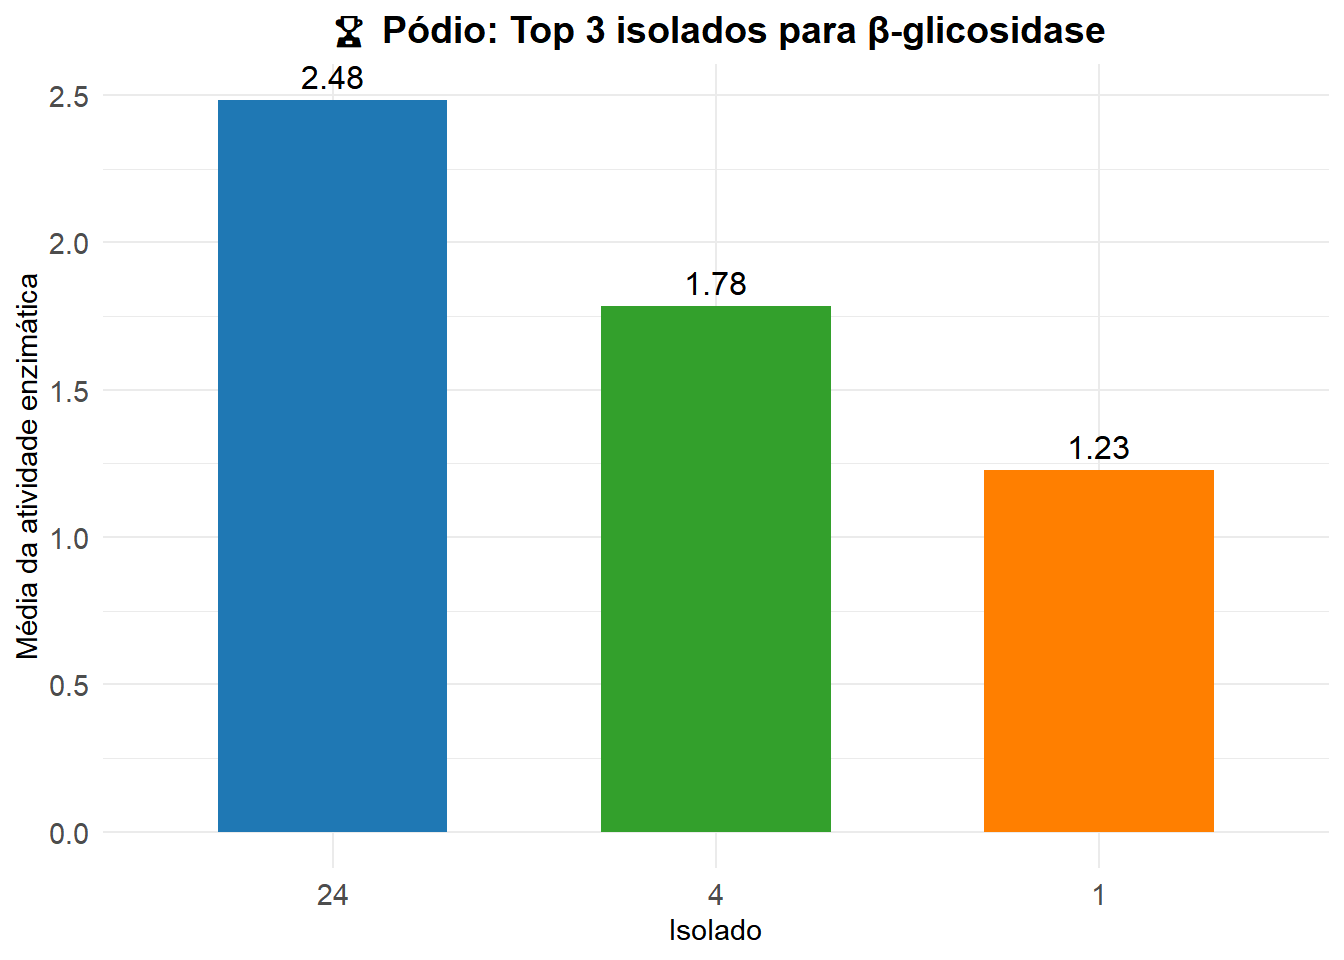
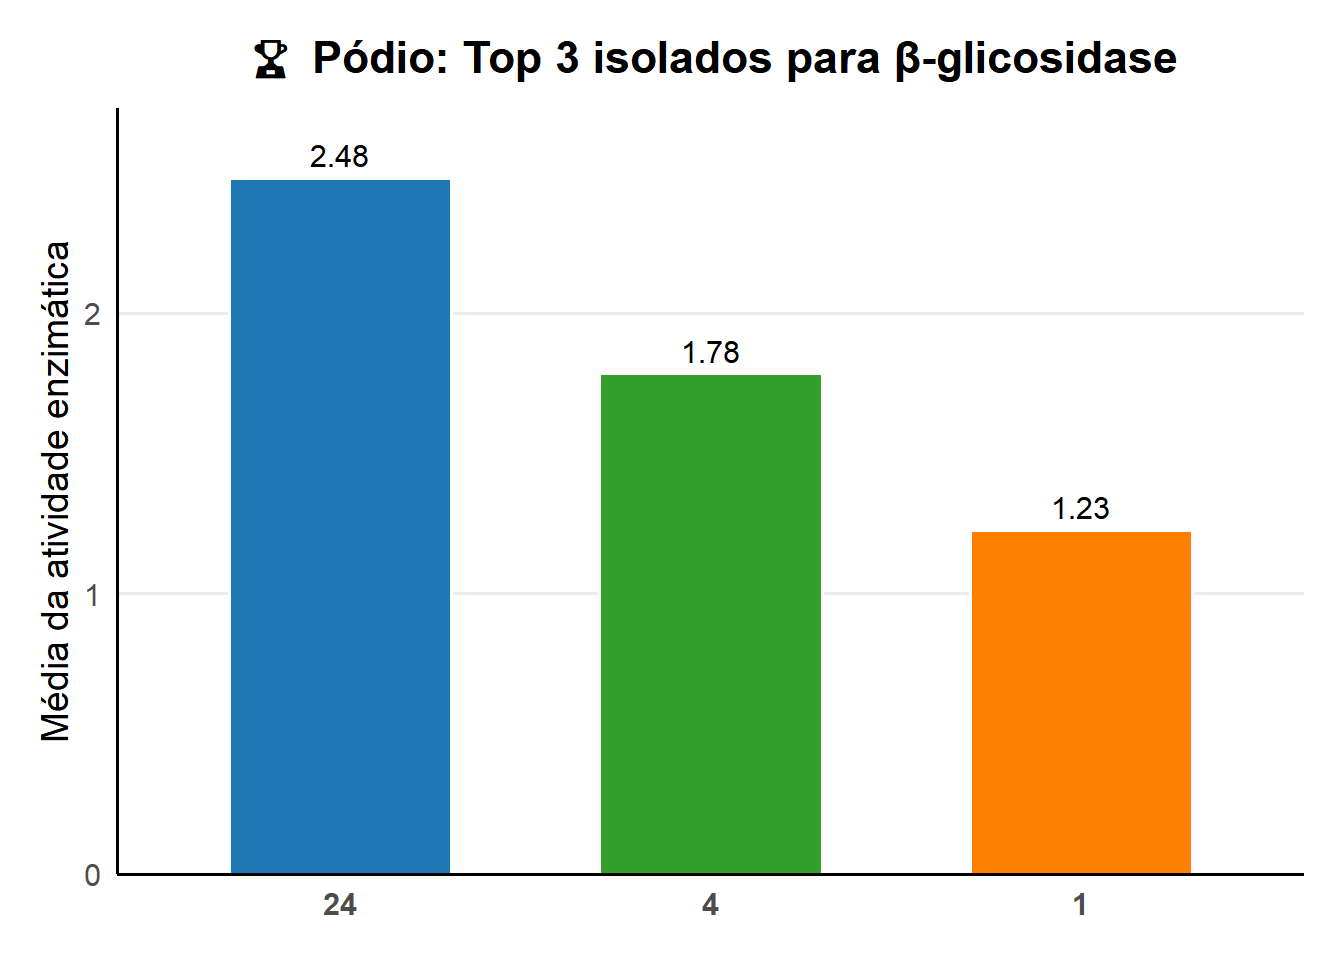
ultima

diff --git a/docs/resultados.html b/docs/resultados.html
@@ -327,11 +327,10 @@ See '? untidy'</code></pre>
 <section id="top-3-isolados-por-enzima" class="level2">
 <h2 class="anchored" data-anchor-id="top-3-isolados-por-enzima">🏆 Top 3 Isolados por Enzima</h2>
 <div class="cell">
-<div class="sourceCode cell-code" id="cb7"><pre class="sourceCode r code-with-copy"><code class="sourceCode r"><span id="cb7-1"><a href="#cb7-1" aria-hidden="true" tabindex="-1"></a><span class="co"># Pacotes necessários</span></span>
-<span id="cb7-2"><a href="#cb7-2" aria-hidden="true" tabindex="-1"></a><span class="fu">library</span>(tidyverse)</span>
-<span id="cb7-3"><a href="#cb7-3" aria-hidden="true" tabindex="-1"></a><span class="fu">library</span>(ggplot2)</span>
-<span id="cb7-4"><a href="#cb7-4" aria-hidden="true" tabindex="-1"></a><span class="fu">library</span>(forcats)</span>
-<span id="cb7-5"><a href="#cb7-5" aria-hidden="true" tabindex="-1"></a><span class="fu">library</span>(scales)</span></code><button title="Copy to Clipboard" class="code-copy-button"><i class="bi"></i></button></pre></div>
+<div class="sourceCode cell-code" id="cb7"><pre class="sourceCode r code-with-copy"><code class="sourceCode r"><span id="cb7-1"><a href="#cb7-1" aria-hidden="true" tabindex="-1"></a><span class="fu">library</span>(tidyverse)</span>
+<span id="cb7-2"><a href="#cb7-2" aria-hidden="true" tabindex="-1"></a><span class="fu">library</span>(ggplot2)</span>
+<span id="cb7-3"><a href="#cb7-3" aria-hidden="true" tabindex="-1"></a><span class="fu">library</span>(forcats)</span>
+<span id="cb7-4"><a href="#cb7-4" aria-hidden="true" tabindex="-1"></a><span class="fu">library</span>(scales)</span></code><button title="Copy to Clipboard" class="code-copy-button"><i class="bi"></i></button></pre></div>
 <div class="cell-output cell-output-stderr">
 <pre><code>
 Anexando pacote: 'scales'</code></pre>
@@ -364,40 +363,59 @@ Anexando pacote: 'scales'</code></pre>
 <span id="cb11-16"><a href="#cb11-16" aria-hidden="true" tabindex="-1"></a>  <span class="fu">arrange</span>(enzima, <span class="fu">desc</span>(media_atividade)) <span class="sc">%&gt;%</span></span>
 <span id="cb11-17"><a href="#cb11-17" aria-hidden="true" tabindex="-1"></a>  <span class="fu">group_by</span>(enzima) <span class="sc">%&gt;%</span></span>
 <span id="cb11-18"><a href="#cb11-18" aria-hidden="true" tabindex="-1"></a>  <span class="fu">slice_head</span>(<span class="at">n =</span> <span class="dv">3</span>) <span class="sc">%&gt;%</span></span>
-<span id="cb11-19"><a href="#cb11-19" aria-hidden="true" tabindex="-1"></a>  <span class="fu">mutate</span>(<span class="at">colocacao =</span> <span class="fu">row_number</span>())  <span class="co"># 1, 2, 3 lugares</span></span>
+<span id="cb11-19"><a href="#cb11-19" aria-hidden="true" tabindex="-1"></a>  <span class="fu">mutate</span>(<span class="at">colocacao =</span> <span class="fu">row_number</span>())</span>
 <span id="cb11-20"><a href="#cb11-20" aria-hidden="true" tabindex="-1"></a></span>
 <span id="cb11-21"><a href="#cb11-21" aria-hidden="true" tabindex="-1"></a><span class="co"># Novas cores do pódio (1º, 2º, 3º)</span></span>
 <span id="cb11-22"><a href="#cb11-22" aria-hidden="true" tabindex="-1"></a>cores_podio <span class="ot">&lt;-</span> <span class="fu">c</span>(<span class="st">"1"</span> <span class="ot">=</span> <span class="st">"#1f78b4"</span>,  <span class="co"># Azul escuro</span></span>
 <span id="cb11-23"><a href="#cb11-23" aria-hidden="true" tabindex="-1"></a>                 <span class="st">"2"</span> <span class="ot">=</span> <span class="st">"#33a02c"</span>,  <span class="co"># Verde vibrante</span></span>
 <span id="cb11-24"><a href="#cb11-24" aria-hidden="true" tabindex="-1"></a>                 <span class="st">"3"</span> <span class="ot">=</span> <span class="st">"#ff7f00"</span>)  <span class="co"># Laranja forte</span></span>
 <span id="cb11-25"><a href="#cb11-25" aria-hidden="true" tabindex="-1"></a></span>
-<span id="cb11-26"><a href="#cb11-26" aria-hidden="true" tabindex="-1"></a><span class="co"># Loop para gerar pódio por enzima</span></span>
+<span id="cb11-26"><a href="#cb11-26" aria-hidden="true" tabindex="-1"></a><span class="co"># Loop para gerar pódio por enzima com visual clean</span></span>
 <span id="cb11-27"><a href="#cb11-27" aria-hidden="true" tabindex="-1"></a><span class="cf">for</span> (enz <span class="cf">in</span> <span class="fu">unique</span>(melhores_isolados<span class="sc">$</span>enzima)) {</span>
 <span id="cb11-28"><a href="#cb11-28" aria-hidden="true" tabindex="-1"></a>  </span>
-<span id="cb11-29"><a href="#cb11-29" aria-hidden="true" tabindex="-1"></a>  dados_podio <span class="ot">&lt;-</span> melhores_isolados <span class="sc">%&gt;%</span> <span class="fu">filter</span>(enzima <span class="sc">==</span> enz)</span>
-<span id="cb11-30"><a href="#cb11-30" aria-hidden="true" tabindex="-1"></a>  </span>
-<span id="cb11-31"><a href="#cb11-31" aria-hidden="true" tabindex="-1"></a>  nome_completo <span class="ot">&lt;-</span> nomes_enzimas[[<span class="fu">tolower</span>(enz)]]</span>
-<span id="cb11-32"><a href="#cb11-32" aria-hidden="true" tabindex="-1"></a>  <span class="cf">if</span> (<span class="fu">is.null</span>(nome_completo)) nome_completo <span class="ot">&lt;-</span> enz</span>
-<span id="cb11-33"><a href="#cb11-33" aria-hidden="true" tabindex="-1"></a>  </span>
-<span id="cb11-34"><a href="#cb11-34" aria-hidden="true" tabindex="-1"></a>  grafico_podio <span class="ot">&lt;-</span> <span class="fu">ggplot</span>(dados_podio, <span class="fu">aes</span>(<span class="at">x =</span> <span class="fu">fct_reorder</span>(isolado, <span class="sc">-</span>media_atividade), </span>
-<span id="cb11-35"><a href="#cb11-35" aria-hidden="true" tabindex="-1"></a>                                           <span class="at">y =</span> media_atividade, </span>
-<span id="cb11-36"><a href="#cb11-36" aria-hidden="true" tabindex="-1"></a>                                           <span class="at">fill =</span> <span class="fu">factor</span>(colocacao))) <span class="sc">+</span></span>
-<span id="cb11-37"><a href="#cb11-37" aria-hidden="true" tabindex="-1"></a>    <span class="fu">geom_col</span>(<span class="at">width =</span> <span class="fl">0.6</span>, <span class="at">show.legend =</span> <span class="cn">FALSE</span>) <span class="sc">+</span></span>
-<span id="cb11-38"><a href="#cb11-38" aria-hidden="true" tabindex="-1"></a>    <span class="fu">geom_text</span>(<span class="fu">aes</span>(<span class="at">label =</span> <span class="fu">round</span>(media_atividade, <span class="dv">2</span>)), <span class="at">vjust =</span> <span class="sc">-</span><span class="fl">0.5</span>, <span class="at">size =</span> <span class="fl">4.2</span>) <span class="sc">+</span></span>
-<span id="cb11-39"><a href="#cb11-39" aria-hidden="true" tabindex="-1"></a>    <span class="fu">scale_fill_manual</span>(<span class="at">values =</span> cores_podio) <span class="sc">+</span></span>
-<span id="cb11-40"><a href="#cb11-40" aria-hidden="true" tabindex="-1"></a>    <span class="fu">labs</span>(</span>
-<span id="cb11-41"><a href="#cb11-41" aria-hidden="true" tabindex="-1"></a>      <span class="at">title =</span> <span class="fu">paste</span>(<span class="st">"🏆 Pódio: Top 3 isolados para"</span>, nome_completo),</span>
-<span id="cb11-42"><a href="#cb11-42" aria-hidden="true" tabindex="-1"></a>      <span class="at">x =</span> <span class="st">"Isolado"</span>,</span>
-<span id="cb11-43"><a href="#cb11-43" aria-hidden="true" tabindex="-1"></a>      <span class="at">y =</span> <span class="st">"Média da atividade enzimática"</span></span>
-<span id="cb11-44"><a href="#cb11-44" aria-hidden="true" tabindex="-1"></a>    ) <span class="sc">+</span></span>
-<span id="cb11-45"><a href="#cb11-45" aria-hidden="true" tabindex="-1"></a>    <span class="fu">theme_minimal</span>() <span class="sc">+</span></span>
-<span id="cb11-46"><a href="#cb11-46" aria-hidden="true" tabindex="-1"></a>    <span class="fu">theme</span>(</span>
-<span id="cb11-47"><a href="#cb11-47" aria-hidden="true" tabindex="-1"></a>      <span class="at">plot.title =</span> <span class="fu">element_text</span>(<span class="at">hjust =</span> <span class="fl">0.5</span>, <span class="at">face =</span> <span class="st">"bold"</span>, <span class="at">size =</span> <span class="dv">14</span>),</span>
-<span id="cb11-48"><a href="#cb11-48" aria-hidden="true" tabindex="-1"></a>      <span class="at">axis.text =</span> <span class="fu">element_text</span>(<span class="at">size =</span> <span class="dv">11</span>)</span>
-<span id="cb11-49"><a href="#cb11-49" aria-hidden="true" tabindex="-1"></a>    )</span>
-<span id="cb11-50"><a href="#cb11-50" aria-hidden="true" tabindex="-1"></a>  </span>
-<span id="cb11-51"><a href="#cb11-51" aria-hidden="true" tabindex="-1"></a>  <span class="fu">print</span>(grafico_podio)</span>
-<span id="cb11-52"><a href="#cb11-52" aria-hidden="true" tabindex="-1"></a>}</span></code><button title="Copy to Clipboard" class="code-copy-button"><i class="bi"></i></button></pre></div>
+<span id="cb11-29"><a href="#cb11-29" aria-hidden="true" tabindex="-1"></a>  dados_podio <span class="ot">&lt;-</span> melhores_isolados <span class="sc">%&gt;%</span> </span>
+<span id="cb11-30"><a href="#cb11-30" aria-hidden="true" tabindex="-1"></a>    <span class="fu">filter</span>(enzima <span class="sc">==</span> enz)</span>
+<span id="cb11-31"><a href="#cb11-31" aria-hidden="true" tabindex="-1"></a>  </span>
+<span id="cb11-32"><a href="#cb11-32" aria-hidden="true" tabindex="-1"></a>  <span class="co"># Obter o nome completo da enzima (confere minúsculas)</span></span>
+<span id="cb11-33"><a href="#cb11-33" aria-hidden="true" tabindex="-1"></a>  nome_completo <span class="ot">&lt;-</span> nomes_enzimas[[<span class="fu">tolower</span>(enz)]]</span>
+<span id="cb11-34"><a href="#cb11-34" aria-hidden="true" tabindex="-1"></a>  <span class="cf">if</span> (<span class="fu">is.null</span>(nome_completo)) nome_completo <span class="ot">&lt;-</span> enz</span>
+<span id="cb11-35"><a href="#cb11-35" aria-hidden="true" tabindex="-1"></a>  </span>
+<span id="cb11-36"><a href="#cb11-36" aria-hidden="true" tabindex="-1"></a>  grafico_podio <span class="ot">&lt;-</span> <span class="fu">ggplot</span>(dados_podio, </span>
+<span id="cb11-37"><a href="#cb11-37" aria-hidden="true" tabindex="-1"></a>                          <span class="fu">aes</span>(<span class="at">x =</span> <span class="fu">fct_reorder</span>(isolado, <span class="sc">-</span>media_atividade), </span>
+<span id="cb11-38"><a href="#cb11-38" aria-hidden="true" tabindex="-1"></a>                              <span class="at">y =</span> media_atividade, </span>
+<span id="cb11-39"><a href="#cb11-39" aria-hidden="true" tabindex="-1"></a>                              <span class="at">fill =</span> <span class="fu">factor</span>(colocacao))) <span class="sc">+</span></span>
+<span id="cb11-40"><a href="#cb11-40" aria-hidden="true" tabindex="-1"></a>    <span class="fu">geom_col</span>(<span class="at">width =</span> <span class="fl">0.6</span>, </span>
+<span id="cb11-41"><a href="#cb11-41" aria-hidden="true" tabindex="-1"></a>             <span class="at">color =</span> <span class="st">"white"</span>,   <span class="co"># Borda branca nas barras</span></span>
+<span id="cb11-42"><a href="#cb11-42" aria-hidden="true" tabindex="-1"></a>             <span class="at">size =</span> <span class="fl">0.7</span>, </span>
+<span id="cb11-43"><a href="#cb11-43" aria-hidden="true" tabindex="-1"></a>             <span class="at">show.legend =</span> <span class="cn">FALSE</span>) <span class="sc">+</span></span>
+<span id="cb11-44"><a href="#cb11-44" aria-hidden="true" tabindex="-1"></a>    <span class="fu">geom_text</span>(<span class="fu">aes</span>(<span class="at">label =</span> <span class="fu">round</span>(media_atividade, <span class="dv">2</span>)), </span>
+<span id="cb11-45"><a href="#cb11-45" aria-hidden="true" tabindex="-1"></a>              <span class="at">vjust =</span> <span class="sc">-</span><span class="fl">0.5</span>, </span>
+<span id="cb11-46"><a href="#cb11-46" aria-hidden="true" tabindex="-1"></a>              <span class="at">size =</span> <span class="dv">4</span>) <span class="sc">+</span></span>
+<span id="cb11-47"><a href="#cb11-47" aria-hidden="true" tabindex="-1"></a>    <span class="fu">scale_fill_manual</span>(<span class="at">values =</span> cores_podio) <span class="sc">+</span></span>
+<span id="cb11-48"><a href="#cb11-48" aria-hidden="true" tabindex="-1"></a>    <span class="fu">labs</span>(</span>
+<span id="cb11-49"><a href="#cb11-49" aria-hidden="true" tabindex="-1"></a>      <span class="at">title =</span> <span class="fu">paste</span>(<span class="st">"🏆 Pódio: Top 3 isolados para"</span>, nome_completo),</span>
+<span id="cb11-50"><a href="#cb11-50" aria-hidden="true" tabindex="-1"></a>      <span class="at">x =</span> <span class="cn">NULL</span>,  <span class="co"># Removendo o rótulo do eixo x para maior limpeza</span></span>
+<span id="cb11-51"><a href="#cb11-51" aria-hidden="true" tabindex="-1"></a>      <span class="at">y =</span> <span class="st">"Média da atividade enzimática"</span></span>
+<span id="cb11-52"><a href="#cb11-52" aria-hidden="true" tabindex="-1"></a>    ) <span class="sc">+</span></span>
+<span id="cb11-53"><a href="#cb11-53" aria-hidden="true" tabindex="-1"></a>    <span class="fu">theme_minimal</span>(<span class="at">base_size =</span> <span class="dv">14</span>) <span class="sc">+</span></span>
+<span id="cb11-54"><a href="#cb11-54" aria-hidden="true" tabindex="-1"></a>    <span class="fu">theme</span>(</span>
+<span id="cb11-55"><a href="#cb11-55" aria-hidden="true" tabindex="-1"></a>      <span class="at">plot.title =</span> <span class="fu">element_text</span>(<span class="at">hjust =</span> <span class="fl">0.5</span>, </span>
+<span id="cb11-56"><a href="#cb11-56" aria-hidden="true" tabindex="-1"></a>                                <span class="at">face =</span> <span class="st">"bold"</span>, </span>
+<span id="cb11-57"><a href="#cb11-57" aria-hidden="true" tabindex="-1"></a>                                <span class="at">margin =</span> <span class="fu">margin</span>(<span class="at">b =</span> <span class="dv">10</span>)),</span>
+<span id="cb11-58"><a href="#cb11-58" aria-hidden="true" tabindex="-1"></a>      <span class="at">axis.text.x =</span> <span class="fu">element_text</span>(<span class="at">face =</span> <span class="st">"bold"</span>),</span>
+<span id="cb11-59"><a href="#cb11-59" aria-hidden="true" tabindex="-1"></a>      <span class="at">panel.grid.minor =</span> <span class="fu">element_blank</span>(),         <span class="co"># Remove gridlines menores</span></span>
+<span id="cb11-60"><a href="#cb11-60" aria-hidden="true" tabindex="-1"></a>      <span class="at">panel.grid.major.x =</span> <span class="fu">element_blank</span>(),         <span class="co"># Remove gridlines verticais</span></span>
+<span id="cb11-61"><a href="#cb11-61" aria-hidden="true" tabindex="-1"></a>      <span class="at">axis.line =</span> <span class="fu">element_line</span>(<span class="at">color =</span> <span class="st">"black"</span>),    <span class="co"># Linhas dos eixos para delimitação</span></span>
+<span id="cb11-62"><a href="#cb11-62" aria-hidden="true" tabindex="-1"></a>      <span class="at">plot.margin =</span> <span class="fu">margin</span>(<span class="dv">15</span>, <span class="dv">15</span>, <span class="dv">15</span>, <span class="dv">15</span>)</span>
+<span id="cb11-63"><a href="#cb11-63" aria-hidden="true" tabindex="-1"></a>    ) <span class="sc">+</span></span>
+<span id="cb11-64"><a href="#cb11-64" aria-hidden="true" tabindex="-1"></a>    <span class="fu">scale_y_continuous</span>(<span class="at">expand =</span> <span class="fu">expansion</span>(<span class="at">mult =</span> <span class="fu">c</span>(<span class="dv">0</span>, <span class="fl">0.1</span>)))  <span class="co"># Dá um espaço para os rótulos acima das barras</span></span>
+<span id="cb11-65"><a href="#cb11-65" aria-hidden="true" tabindex="-1"></a>  </span>
+<span id="cb11-66"><a href="#cb11-66" aria-hidden="true" tabindex="-1"></a>  <span class="fu">print</span>(grafico_podio)</span>
+<span id="cb11-67"><a href="#cb11-67" aria-hidden="true" tabindex="-1"></a>}</span></code><button title="Copy to Clipboard" class="code-copy-button"><i class="bi"></i></button></pre></div>
+<div class="cell-output cell-output-stderr">
+<pre><code>Warning: Using `size` aesthetic for lines was deprecated in ggplot2 3.4.0.
+ℹ Please use `linewidth` instead.</code></pre>
+</div>
 <div class="cell-output-display">
 <div>
 <figure class="figure">
